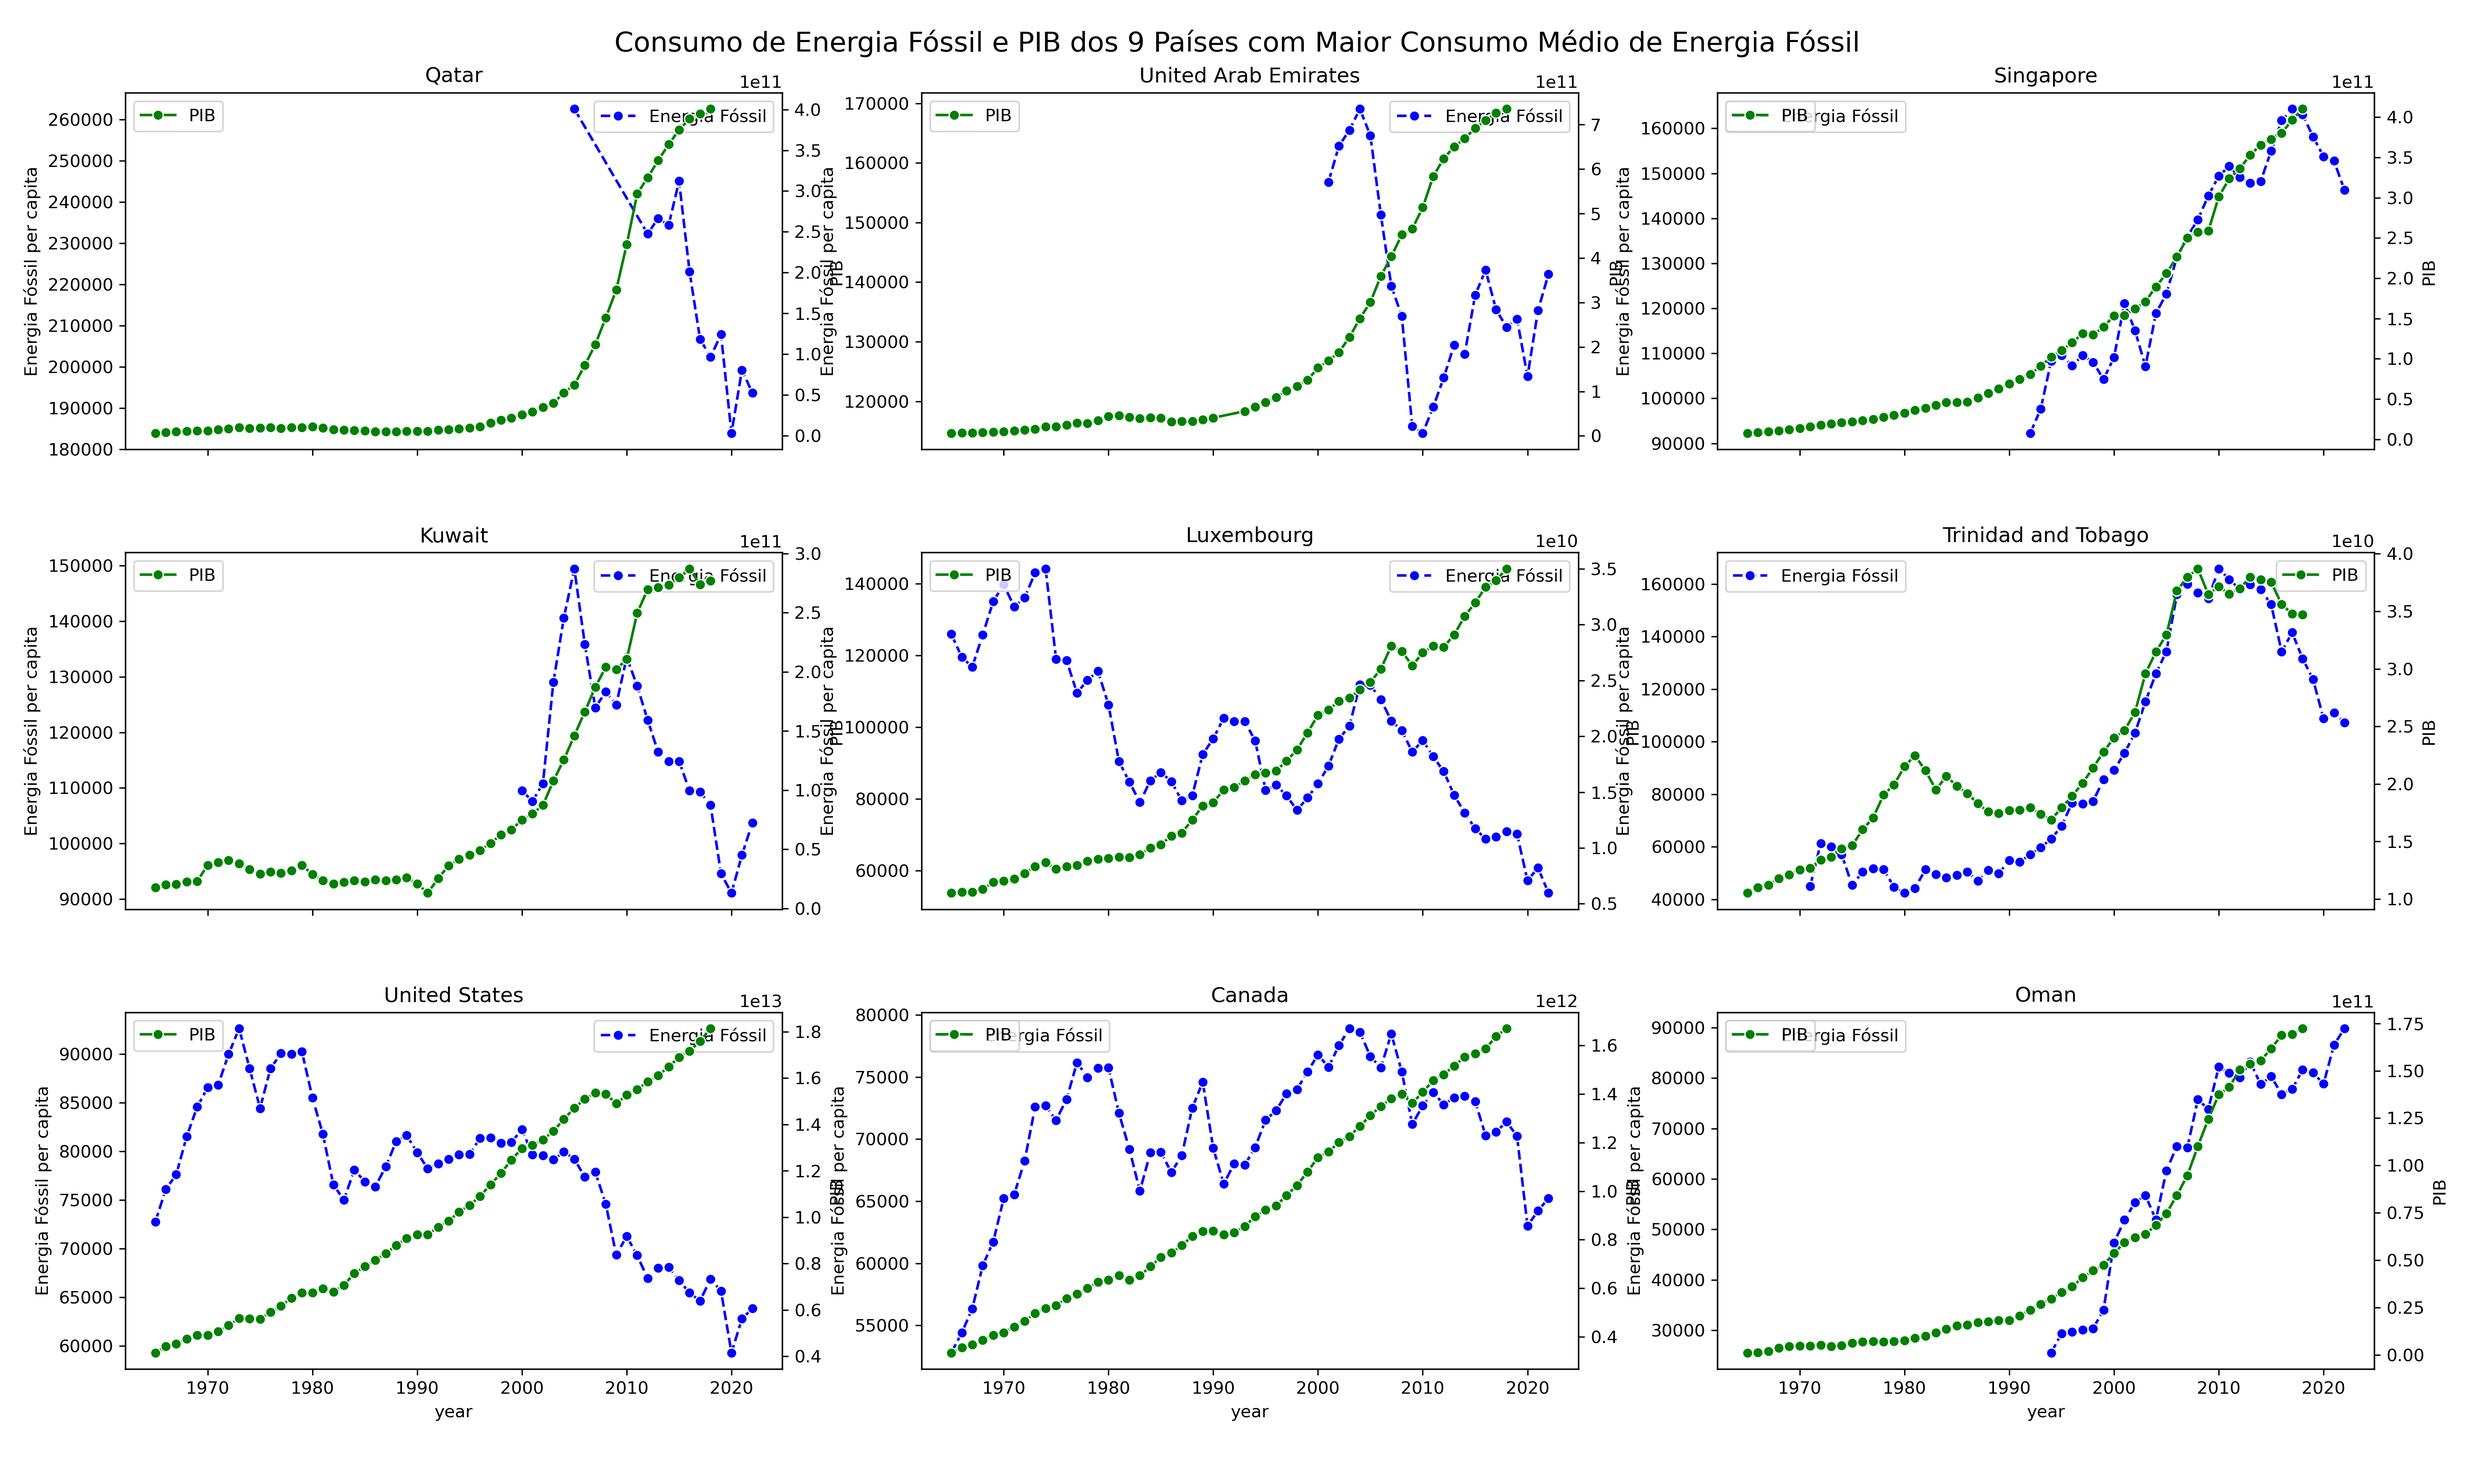
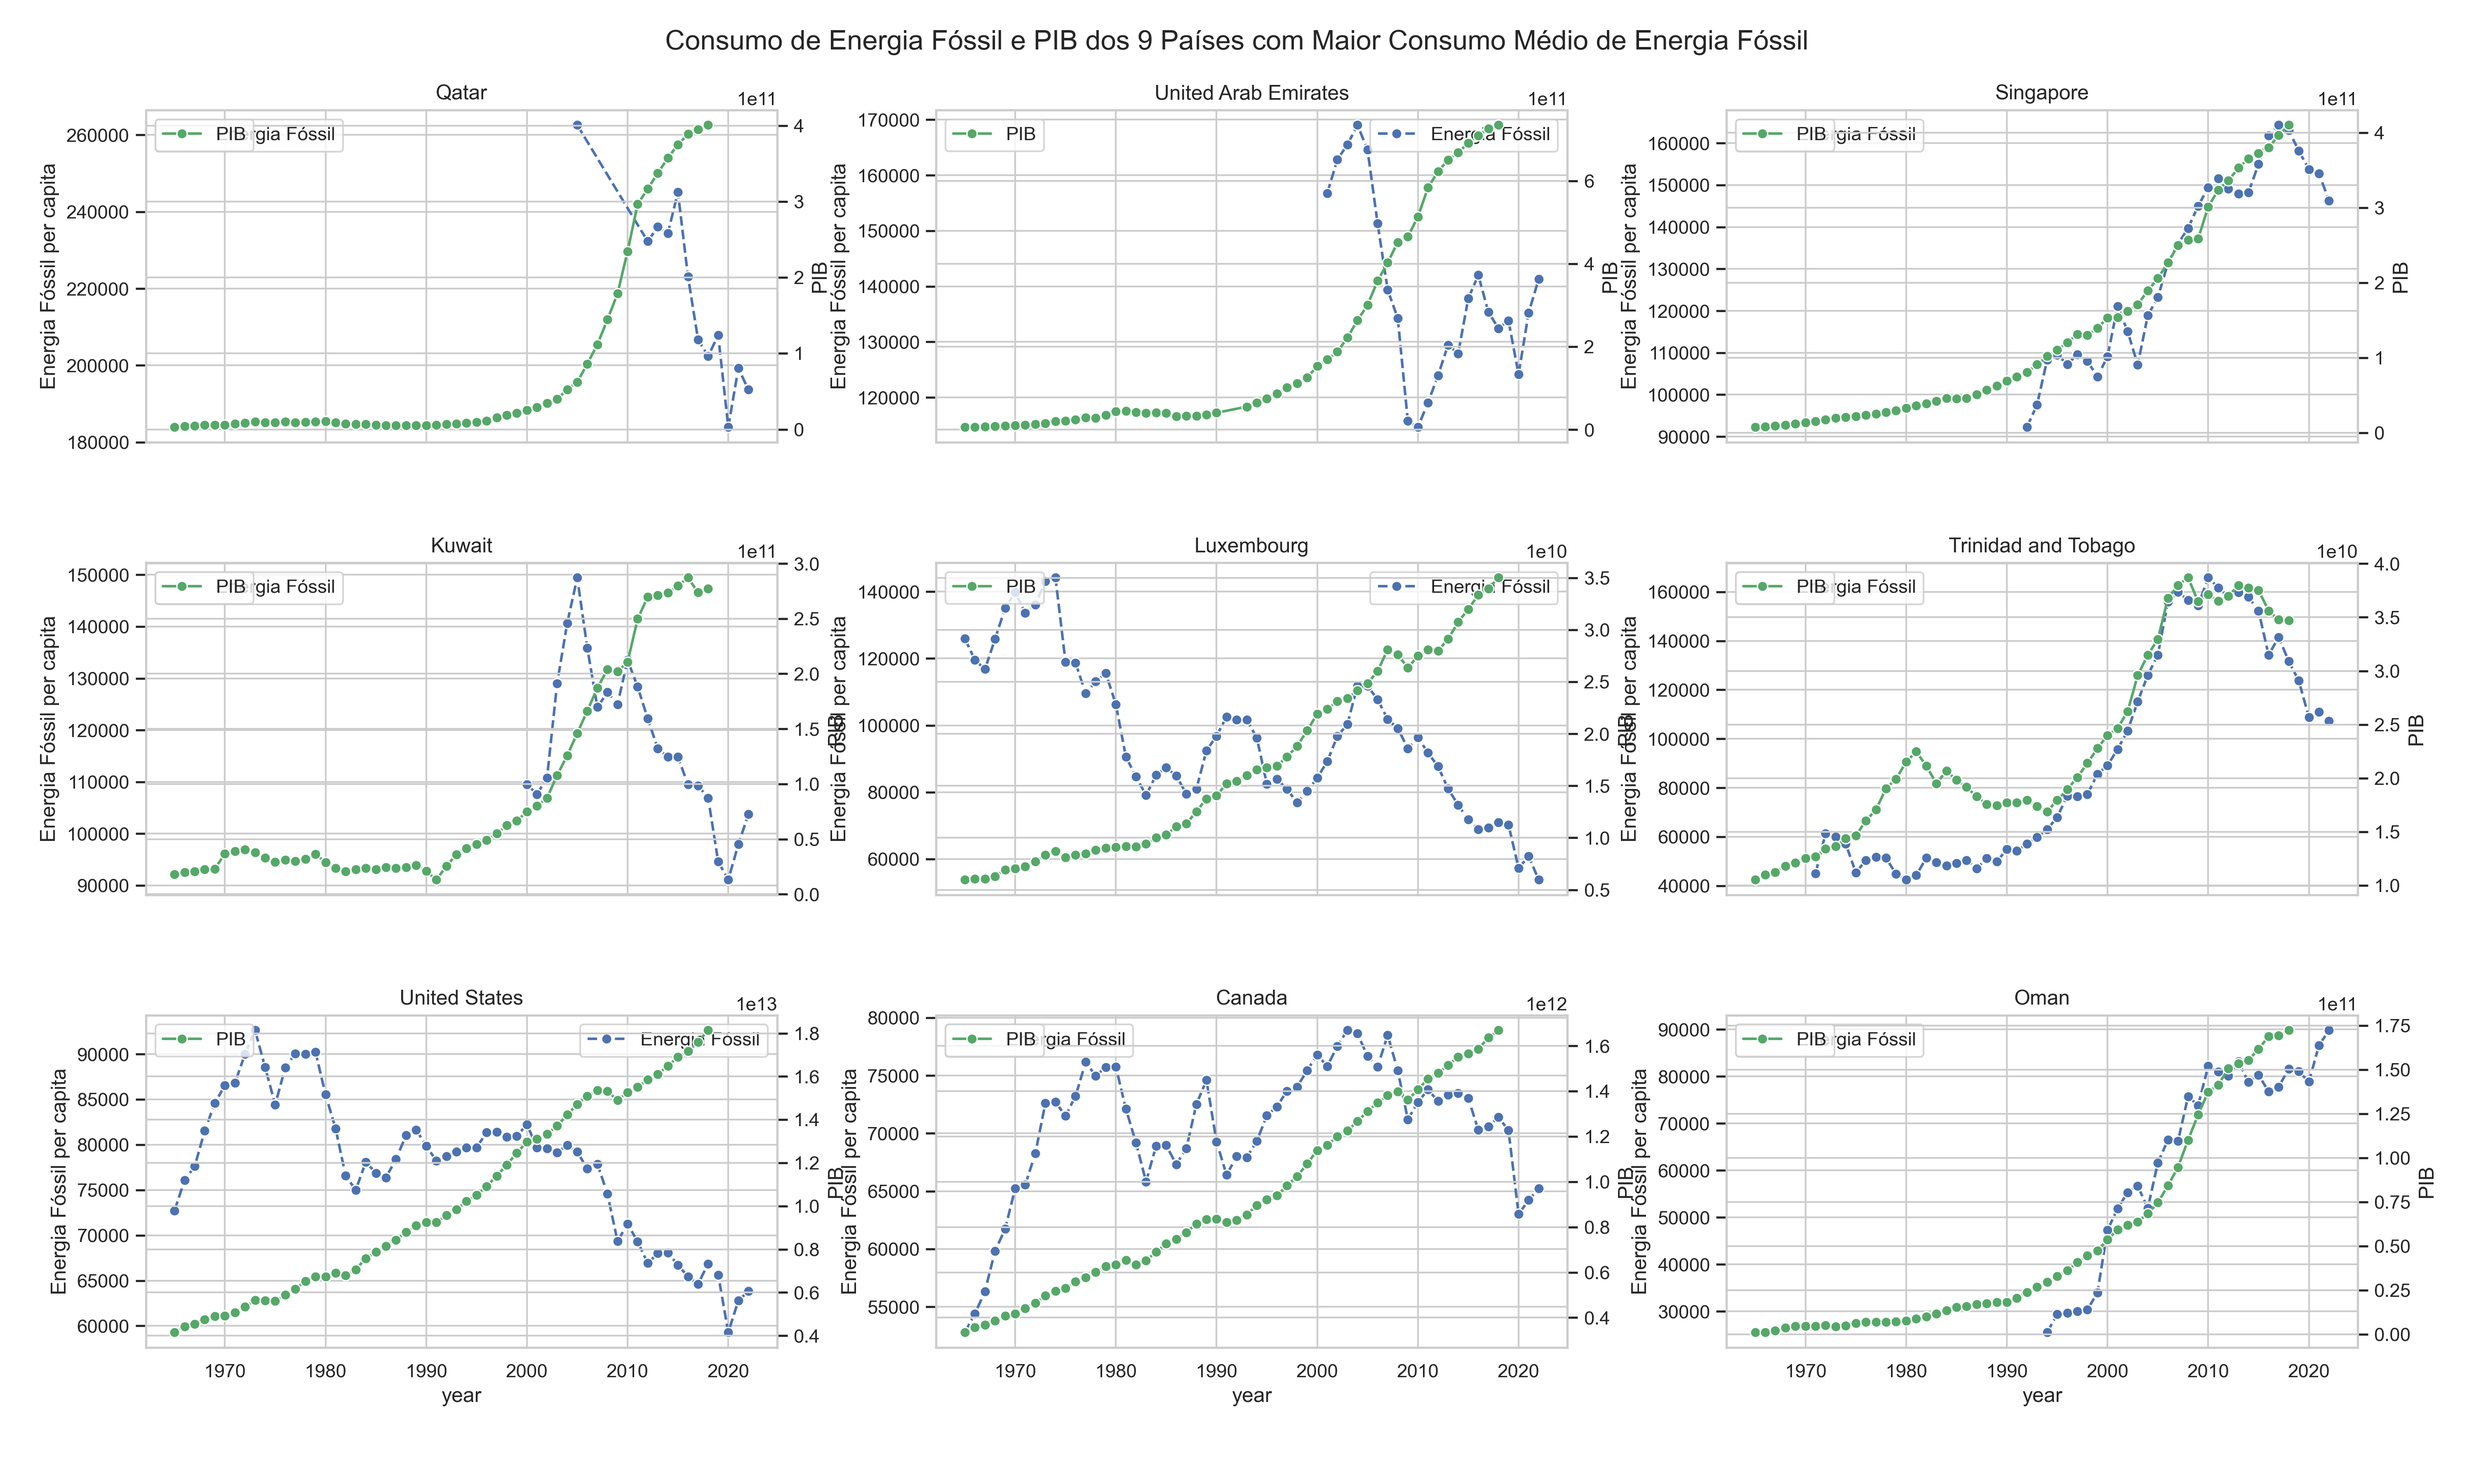
Adicionei mais algumas funções geradoras de gráficos

diff --git a/src/fossil_energy_analysis.py b/src/fossil_energy_analysis.py
@@ -13,23 +13,23 @@ import pandas as pd
 
 df = pd.DataFrame(data_cleaner.GDP_and_fossil_energy_frame)
 # df.set_index("country", inplace= True)
-# df.drop('World', axis=0, inplace=True)
+#df.drop('World', axis=0, inplace=True)
 
 print(df.index)
 columns = df.columns
 
-# df.set_index(['country', 'year'], inplace=True)
+df_auxiliary = df.set_index(['country', 'year'])
 
 
 
-def plot_country_energy_gdp(df, country, ax, colors):
+def plot_country_energy_gdp(df, country, ax, column, colors):
     """Plota o consumo de energia fóssil e PIB para um determinado país."""
     paises_selecionados = df.loc[country]
-
+    
     # Gráfico de linhas para o consumo de energia fóssil
     sns.lineplot(data=paises_selecionados, x=paises_selecionados.index.get_level_values('year'),
-                 y='fossil_energy_per_capita', marker='o', linestyle='--', ax=ax, color= colors[0], label='Energia Fóssil')
-
+                 y=column, marker='o', linestyle='--', ax=ax, color= colors[0], label='Energia Fóssil')
+    
     # Gráfico de linhas para o PIB em um outro eixo
     ax2 = ax.twinx()
     sns.lineplot(data=paises_selecionados, x=paises_selecionados.index.get_level_values('year'),
@@ -49,9 +49,9 @@ def plot_country_energy_gdp(df, country, ax, colors):
 def plot_top_9_countries(df):
     """Plota um grid dos 9 países com maior consumo médio de energia fóssil."""
     
-    df.set_index(['country', 'year'], inplace=True)
+#    df.set_index(['country', 'year'], inplace=True)
     
-    # Calcular a média de consumo de energia fóssil per capita para cada país
+    # Calculo da média de consumo de energia fóssil per capita de cada país
     media_consumo = df.groupby('country')['fossil_energy_per_capita'].mean()
 
     # Selecionar os 9 países com o maior consumo médio
@@ -60,16 +60,15 @@ def plot_top_9_countries(df):
     # Criar o grid de gráficos (3x3)
     fig, axes = plt.subplots(3, 3, figsize=(20, 12), sharex=True, sharey=False)
 
-    # Ajustar o layout
     fig.tight_layout(pad=5.0)
     colors = ['b','g']
     
-    # Loop pelos 9 países para plotar cada um em um subplot
+    # Plotar cada país em um subplot
     for i, country in enumerate(top_9_countries):
         ax = axes[i//3, i%3]  # Selecionar o subplot correspondente
-        plot_country_energy_gdp(df, country, ax, colors)
+        plot_country_energy_gdp(df, country, ax, 'fossil_energy_per_capita', colors)
 
-    # Título geral
+
     fig.suptitle('Consumo de Energia Fóssil e PIB dos 9 Países com Maior Consumo Médio de Energia Fóssil', fontsize=16)
 
    
@@ -86,9 +85,9 @@ def plot_top_9_countries(df):
 def plot_lower_9_countries(df):
     """Plota um grid dos 9 países com menor consumo médio de energia fóssil."""
     
-    df.set_index(['country', 'year'], inplace=True)
+#    df.set_index(['country', 'year'], inplace=True)
     
-    # Calcular a média de consumo de energia fóssil per capita para cada país
+    # Calculo da média de consumo de energia fóssil per capita para cada país
     media_consumo = df.groupby('country')['fossil_energy_per_capita'].mean()
 
     # Selecionar os 9 países com o menor consumo médio
@@ -97,21 +96,103 @@ def plot_lower_9_countries(df):
     # Criar o grid de gráficos (3x3)
     fig, axes = plt.subplots(3, 3, figsize=(20, 12), sharex=True, sharey=False)
 
-    # Ajustar o layout
+
     fig.tight_layout(pad=5.0)
     colors = ['brown','orange']
     
-    # Loop pelos 9 países para plotar cada um em um subplot
+    # Plotar cada país em um subplot
     for i, country in enumerate(lower_9_countries):
         ax = axes[i//3, i%3]  # Selecionar o subplot correspondente
-        plot_country_energy_gdp(df, country, ax, colors)
+        plot_country_energy_gdp(df, country, ax, 'fossil_energy_per_capita', colors)
 
-    # Título
     fig.suptitle('Consumo de Energia Fóssil e PIB dos 9 Países com Menor Consumo Médio de Energia Fóssil', fontsize=16)
 
    
     plt.savefig('../plots/lower_9_countries.png', dpi=300, format='png')
     plt.show()
     plt.close()
-# Chamar a função para plotar o grid dos 9 países
-plot_lower_9_countries(df)
+    
+    
+
+plot_top_9_countries(df_auxiliary)
+plot_lower_9_countries(df_auxiliary)
+
+
+
+def world(df, energy):
+    """Plota o consumo de energia fóssil e PIB no Mundo"""
+    # Criar a figura e os eixos
+    fig, ax = plt.subplots(figsize=(10, 6))
+    
+    colors = ["r","b"]
+    
+    plot_country_energy_gdp(df,"World", ax, energy, colors)
+    
+    fig.tight_layout(pad=5.0)
+
+    plt.show()
+
+
+# world(df_auxiliary, 'fossil_energy_per_capita')   
+    
+# world(df_auxiliary, 'coal_cons_per_capita')
+
+# world(df_auxiliary, 'gas_energy_per_capita')
+
+# world(df_auxiliary, 'oil_energy_per_capita')
+
+
+
+def energy_gdp_correlation(df):
+
+    # Dicionário para armazenar as contagens de correlação
+    correlation_counts = {
+        'Energy Type': [],
+        'Alta Correlação': [],
+        'Correlação Moderada': [],
+        'Baixa Correlação': []
+    }
+
+    # Calcular as contagens para cada tipo de energia
+    for energy, col in zip(['Carvão', 'Gás', 'Petróleo'], 
+                            ['coal_cons_per_capita', 'gas_energy_per_capita', 'oil_energy_per_capita']):
+        counts = {'high': 0, 'moderate': 0, 'low': 0}
+
+        # Agrupar por país
+        for country, group in df.groupby('country'):
+            group_clean = group.dropna(subset=['gdp', col])
+            if len(group_clean) > 1:
+                corr_matrix = group_clean[['gdp', col]].corr()
+                correlation_value = corr_matrix.iloc[0, 1]
+
+                # Classificar a correlação
+                if abs(correlation_value) > 0.7:
+                    counts['high'] += 1
+                elif abs(correlation_value) > 0.3:
+                    counts['moderate'] += 1
+                else:
+                    counts['low'] += 1
+
+        # Adicionar os resultados ao dicionário de contagens
+        correlation_counts['Energy Type'].append(energy)
+        correlation_counts['Alta Correlação'].append(counts['high'])
+        correlation_counts['Correlação Moderada'].append(counts['moderate'])
+        correlation_counts['Baixa Correlação'].append(counts['low'])
+
+    # DataFrame das contagens
+    correlation_counts_df = pd.DataFrame(correlation_counts)
+
+
+    correlation_counts_df.set_index('Energy Type').plot(kind='bar', figsize=(10, 6))
+    plt.title('Contagem de Países por Correlação entre PIB e Consumo de Energia Fóssil')
+    plt.xlabel('Tipo de Energia')
+    plt.ylabel('Número de Países')
+    plt.xticks(rotation=0)
+    plt.legend(title='Tipo de Correlação')
+    
+    plt.savefig('../plots/correlations_counts.png', dpi=300, format='png')
+    plt.show()
+    plt.close()
+
+
+energy_gdp_correlation(df)
